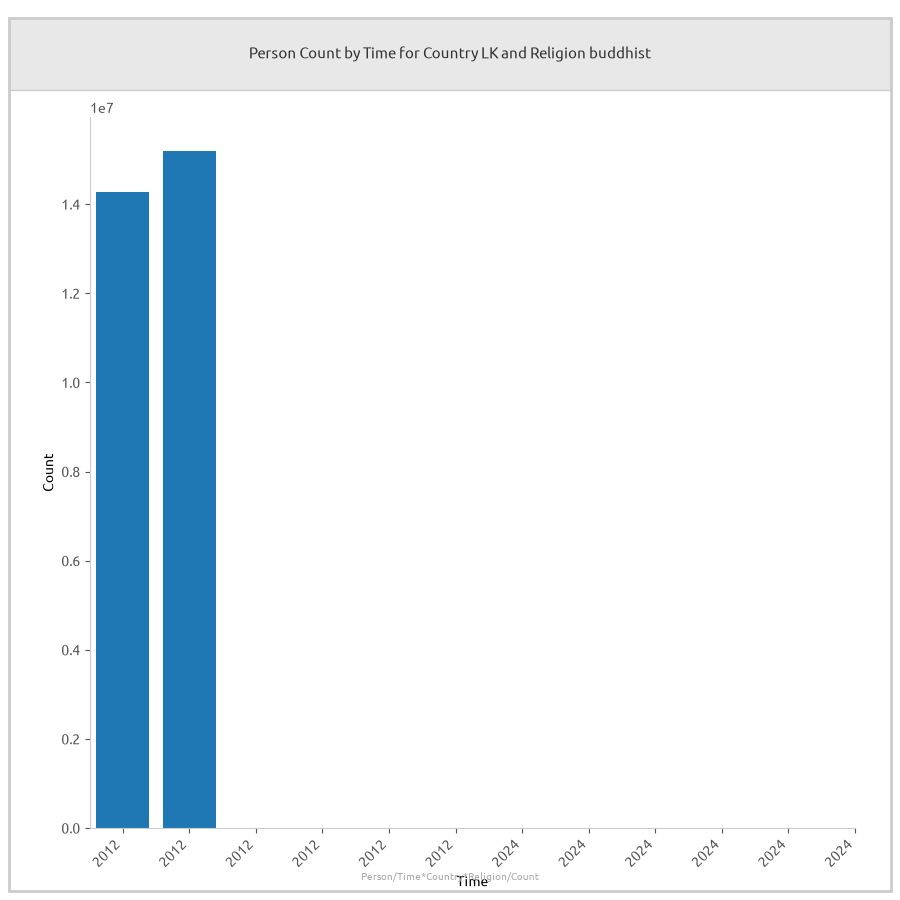
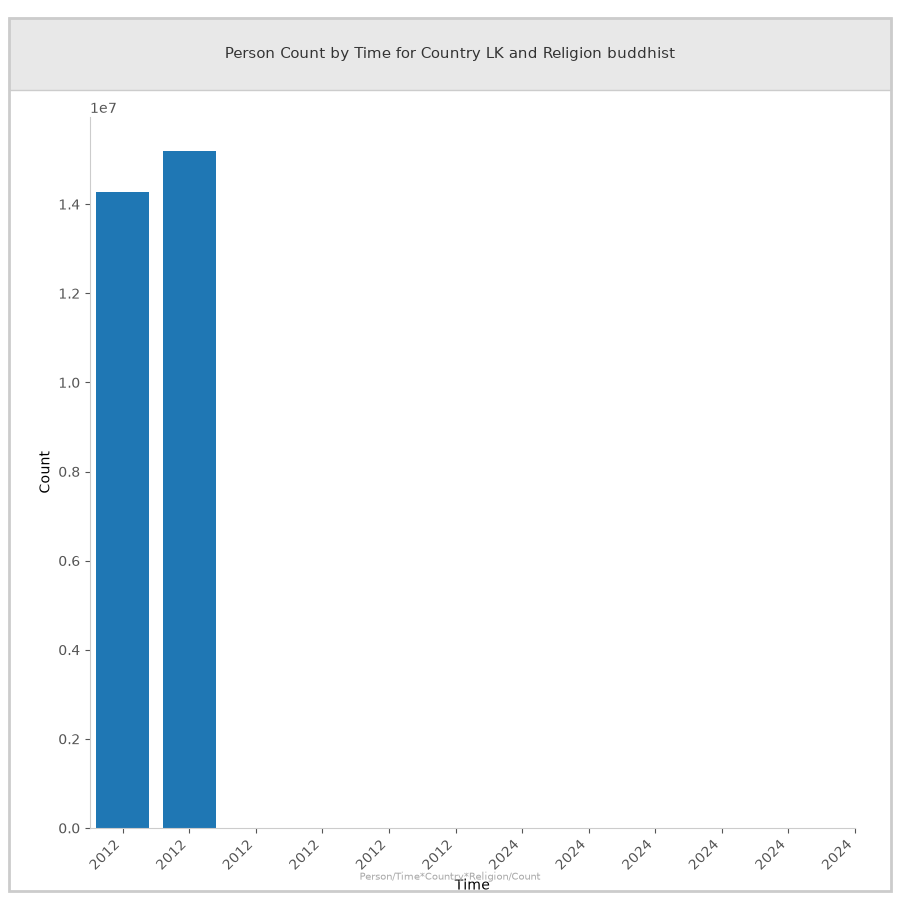
Refactor Visual class to use instance variables for color properties and font family

diff --git a/src/ds/visual/Visual.py b/src/ds/visual/Visual.py
@@ -5,12 +5,6 @@ import matplotlib.patches as mpatches
 import matplotlib.pyplot as plt
 from utils_future import Directory, File, Log
 
-STRIP_COLOR = "#e8e8e8"
-BORDER_COLOR = "#cccccc"
-TITLE_COLOR = "#333333"
-SUBTITLE_COLOR = "#555555"
-FONT_FAMILY = "Inter"
-
 log = Log("Visual")
 
 
@@ -18,6 +12,11 @@ class Visual(ABC):
 
     FIGSIZE = (9, 9)
     DPI = 100
+    STRIP_COLOR = "#e8e8e8"
+    BORDER_COLOR = "#cccccc"
+    TITLE_COLOR = "#333333"
+    SUBTITLE_COLOR = "#555555"
+    FONT_FAMILY = "Lato"
 
     def __init__(self, datumset, *params):
         self.datumset = datumset
@@ -71,8 +70,8 @@ class Visual(ABC):
             0.98,
             0.08,
             transform=fig.transFigure,
-            facecolor=STRIP_COLOR,
-            edgecolor=BORDER_COLOR,
+            facecolor=self.STRIP_COLOR,
+            edgecolor=self.BORDER_COLOR,
             linewidth=1,
             zorder=5,
             clip_on=False,
@@ -85,7 +84,7 @@ class Visual(ABC):
             ha="center",
             va="center",
             fontsize=11,
-            color=TITLE_COLOR,
+            color=self.TITLE_COLOR,
             zorder=6,
         )
 
@@ -97,7 +96,7 @@ class Visual(ABC):
             0.97,
             transform=fig.transFigure,
             fill=False,
-            edgecolor=BORDER_COLOR,
+            edgecolor=self.BORDER_COLOR,
             linewidth=2,
             zorder=5,
             clip_on=False,
@@ -105,9 +104,9 @@ class Visual(ABC):
         fig.add_artist(border)
         ax.spines["top"].set_visible(False)
         ax.spines["right"].set_visible(False)
-        ax.spines["left"].set_color(BORDER_COLOR)
-        ax.spines["bottom"].set_color(BORDER_COLOR)
-        ax.tick_params(colors=SUBTITLE_COLOR)
+        ax.spines["left"].set_color(self.BORDER_COLOR)
+        ax.spines["bottom"].set_color(self.BORDER_COLOR)
+        ax.tick_params(colors=self.SUBTITLE_COLOR)
         fig.text(
             0.5,
             0.02,
@@ -121,7 +120,7 @@ class Visual(ABC):
         fig.subplots_adjust(top=0.87, bottom=0.08, left=0.1, right=0.95)
 
     def draw(self):
-        with plt.rc_context({"font.family": FONT_FAMILY}):
+        with plt.rc_context({"font.family": self.FONT_FAMILY}):
             fig, ax = plt.subplots(figsize=self.FIGSIZE, dpi=self.DPI)
             self._plot(fig, ax)
             self._apply_style(fig, ax)
